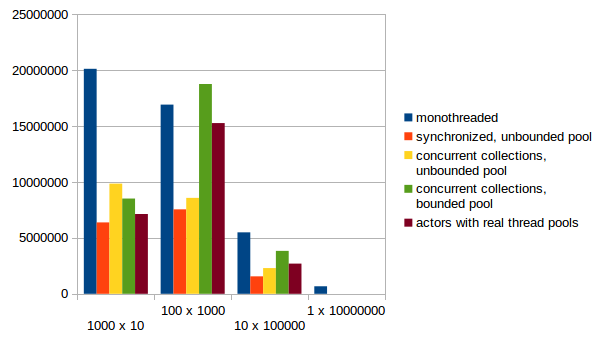
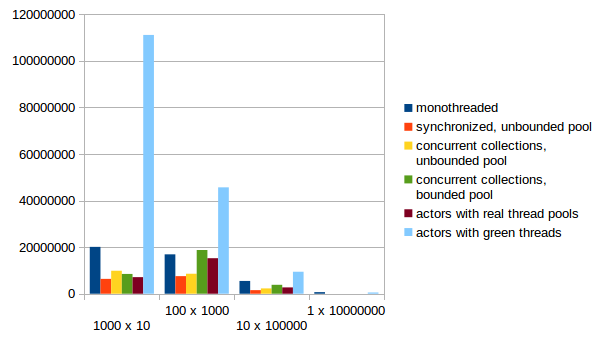
Create green threads for clients
By far the best solution from the start
- add a mailbox to the concurrent client
- re-submit next task at the end of each one
- rerun the bench and update the graphs

diff --git a/src/main/java/net/bourgau/philippe/concurrency/kata/ConcurrentClient.java b/src/main/java/net/bourgau/philippe/concurrency/kata/ConcurrentClient.java
@@ -1,20 +1,40 @@
 package net.bourgau.philippe.concurrency.kata;
 
 
+import java.util.concurrent.ConcurrentLinkedQueue;
 import java.util.concurrent.ExecutorService;
 
-public class ConcurrentClient implements Client {
+public class ConcurrentClient implements Client, Runnable {
     private final RealClient realClient;
     private final ExecutorService threadPool;
+    private final ConcurrentLinkedQueue<Runnable> mailbox = new ConcurrentLinkedQueue<>();
+    private boolean left;
 
     public ConcurrentClient(RealClient realClient, ExecutorService threadPool) {
         this.realClient = realClient;
         this.threadPool = threadPool;
+        submitContinuation();
+    }
+
+    private void submitContinuation() {
+        threadPool.submit(this);
+    }
+
+    public void run() {
+        if (left) {
+            return;
+        }
+
+        Runnable nextMessage = mailbox.poll();
+        if (nextMessage != null) {
+            nextMessage.run();
+        }
+        submitContinuation();
     }
 
     @Override
     public void enter() throws Exception {
-        threadPool.submit(new UnsafeRunnable() {
+        mailbox.add(new UnsafeRunnable() {
             @Override
             public void doRun() throws Exception {
                 realClient.enter();
@@ -24,7 +44,7 @@ public class ConcurrentClient implements Client {
 
     @Override
     public void announce(final String message) {
-        threadPool.submit(new UnsafeRunnable() {
+        mailbox.add(new UnsafeRunnable() {
             @Override
             public void doRun() throws Exception {
                 realClient.announce(message);
@@ -34,17 +54,19 @@ public class ConcurrentClient implements Client {
 
     @Override
     public void leave() throws Exception {
-        threadPool.submit(new UnsafeRunnable() {
+        mailbox.add(new UnsafeRunnable() {
             @Override
             public void doRun() throws Exception {
+                left = true;
                 realClient.leave();
+
             }
         });
     }
 
     @Override
     public void write(final String line) {
-        threadPool.submit(new UnsafeRunnable() {
+        mailbox.add(new UnsafeRunnable() {
             @Override
             public void doRun() throws Exception {
                 realClient.write(line);

diff --git a/src/main/java/net/bourgau/philippe/concurrency/kata/Factory.java b/src/main/java/net/bourgau/philippe/concurrency/kata/Factory.java
@@ -1,7 +1,5 @@
 package net.bourgau.philippe.concurrency.kata;
 
-import java.util.List;
-import java.util.concurrent.CopyOnWriteArrayList;
 import java.util.concurrent.ExecutorService;
 import java.util.concurrent.Executors;
 import java.util.concurrent.TimeUnit;
@@ -9,7 +7,7 @@ import java.util.concurrent.TimeUnit;
 public final class Factory {
 
     private final ExecutorService chatRoomThreadPool = Executors.newFixedThreadPool(1);
-    private final List<ExecutorService> clientsThreadPools = new CopyOnWriteArrayList<>();
+    private final ExecutorService clientsThreadPool = Executors.newFixedThreadPool(Runtime.getRuntime().availableProcessors() - 1);
 
     public ConcurrentChatRoom createChatRoom() {
         return new ConcurrentChatRoom(
@@ -18,17 +16,13 @@ public final class Factory {
     }
 
     public ConcurrentClient createClient(String name, ChatRoom chatRoom, Output out) {
-        ExecutorService threadPool = Executors.newFixedThreadPool(1);
-        clientsThreadPools.add(threadPool);
         return new ConcurrentClient(
                 new RealClient(name, chatRoom, out),
-                threadPool);
+                clientsThreadPool);
     }
 
     public void shutdownAndAwaitTermination(int count, TimeUnit timeUnit) throws InterruptedException {
-        for (ExecutorService threadPool : clientsThreadPools) {
-            shutdownThreadPool(threadPool, count, timeUnit);
-        }
+        shutdownThreadPool(clientsThreadPool, count, timeUnit);
         shutdownThreadPool(chatRoomThreadPool, count, timeUnit);
     }
 

diff --git a/src/test/java/net/bourgau/philippe/concurrency/kata/EndToEndTest.java b/src/test/java/net/bourgau/philippe/concurrency/kata/EndToEndTest.java
@@ -28,12 +28,15 @@ public class EndToEndTest {
         jack = factory.createClient("Jack", aClientChatRoom(), new MemoryOutput());
 
         joe.enter();
+
+        joeShouldReceive(welcome("Joe"));
     }
 
     @After
     public void after_each() throws Exception {
         joe.leave();
         jack.leave();
+
     }
 
     protected ChatRoom aClientChatRoom() {
@@ -88,12 +91,18 @@ public class EndToEndTest {
         joeShouldReceive(exit("Jack"));
     }
 
-    @Test(expected = Exception.class)
+    @Test(expected = ConditionTimeoutException.class)
     public void
     a_client_cannot_write_after_it_left() throws Exception {
-        joe.leave();
+        jack.enter();
+        joeShouldReceive(welcome("Jack"));
 
-        joe.announce("Hello ?");
+        jack.leave();
+        joeShouldReceive(exit("Jack"));
+
+        jack.announce("All alone now ...");
+
+        joeShouldReceive(signed("Jack", "Are alone now ..."));
     }
 
     @Test(expected = ConditionTimeoutException.class)
